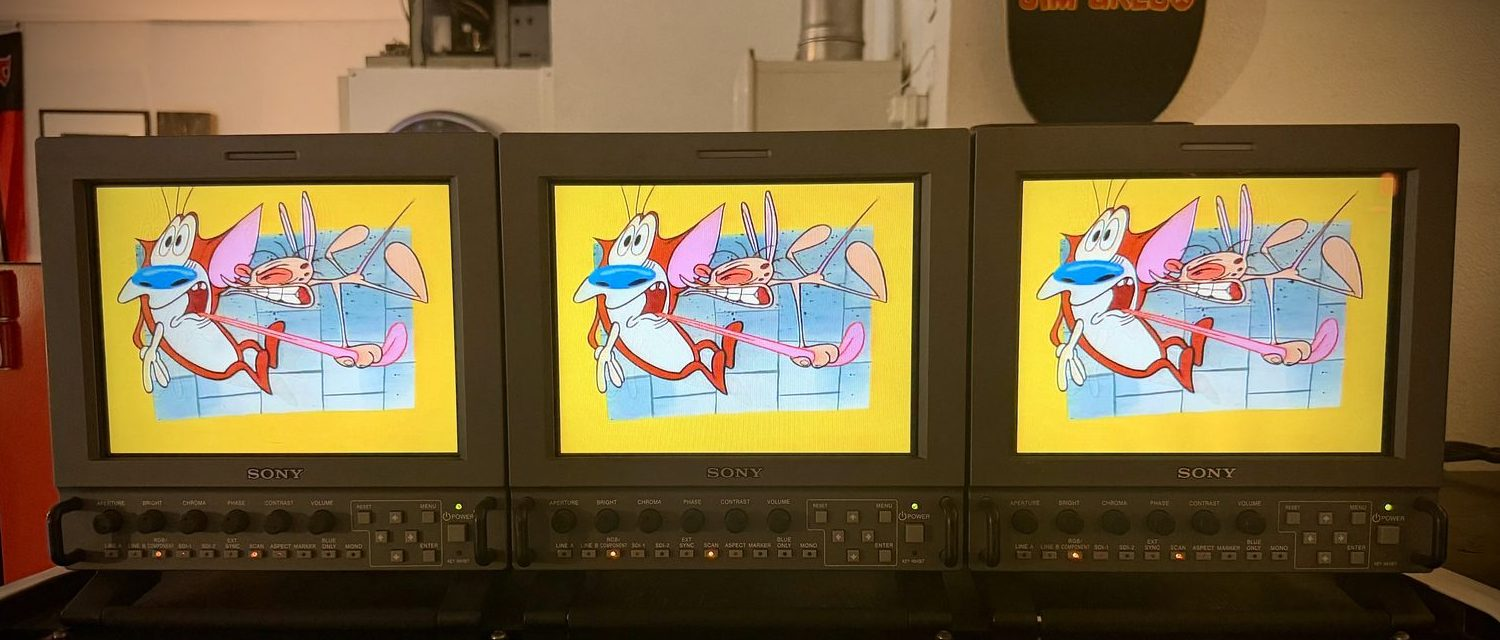
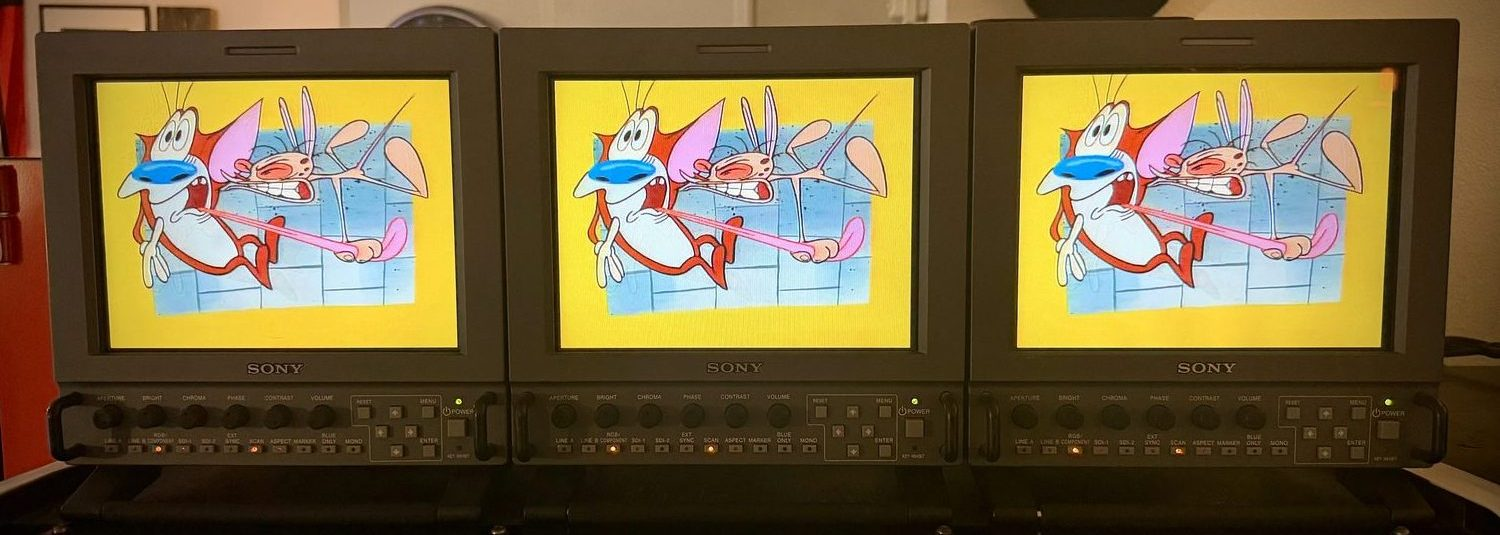
Monitor roster: align the cards without cropping the photos
David: don't crop the CRTs more than they were cropped before -- the 4:3
cover crop was cutting off control panels, keypads and the AMS-100 sitting
on top, which is the part worth looking at.

- the roster thumb is now a 7:6 plate with object-fit:contain on a
  transparent ground, so the whole photo shows and the card's own gradient
  mats it; two columns, rows still line up, nothing cropped
- lmd-rack.jpg cropped on top per his note -- ceiling, shelf and the wall
  disc are gone, the rack and its control strip stay. 1500x535, thumb
  800x285, refs bumped to ?v=3 on monitors and in the gallery, which
  shares the file

diff --git a/monitors.html b/monitors.html
@@ -126,12 +126,14 @@
   /* Fleet roster — one uniform card, the way the coin-op grid works.
      Even column counts only, so four tubes never leave an orphan row.
      4:3 is the tube's own ratio, so every chassis frames the same way. */
-  .grid.fleetgrid{grid-template-columns:repeat(4,minmax(0,1fr))}
+  .grid.fleetgrid{grid-template-columns:repeat(2,minmax(0,1fr))}
   @media(max-width:900px){.grid.fleetgrid{grid-template-columns:repeat(2,minmax(0,1fr))}}
   @media(max-width:520px){.grid.fleetgrid{grid-template-columns:1fr}}
-  .fleetgrid .cthumb{aspect-ratio:4/3}
+  /* One uniform plate per card, but object-fit:contain — the whole photo
+     shows, nothing is cropped; the card's own ground fills the rest. */
+  .fleetgrid .cthumb{aspect-ratio:7/6;object-fit:contain;background:transparent}
   .fleetgrid .wide{grid-column:1/-1}
-  .fleetgrid .wide .cthumb{aspect-ratio:800/341}
+  .fleetgrid .wide .cthumb{aspect-ratio:800/285}
   .fleetgrid .lmdlist{display:flex;flex-wrap:wrap;gap:.35rem .9rem;margin-top:.6rem;
     font-family:var(--cond);font-size:.95rem;color:var(--dim)}
   .fleetgrid .lmdlist b{color:var(--ink);font-weight:600}
@@ -190,7 +192,7 @@
         <p>Fully kitted &mdash; all three card slots filled, control panel and keypad flanking the tube. On screen: <em>Beggar Prince</em>, 2006 &mdash; a brand-new Genesis game a decade after Sega walked away, on the last CRT generation Sony ever built.</p>
       </div>
       <div class="card wide">
-        <img class="cthumb" src="media/thumbs/lmd-rack.jpg?v=2" data-full="media/2026/lmd-rack.jpg?v=2" alt="Three Sony LMD professional LCD monitors side by side, all showing the same cartoon frame" loading="lazy" width="800" height="341">
+        <img class="cthumb" src="media/thumbs/lmd-rack.jpg?v=3" data-full="media/2026/lmd-rack.jpg?v=3" alt="Three Sony LMD professional LCD monitors side by side, all showing the same cartoon frame" loading="lazy" width="800" height="285">
         <div class="sub">LMD &middot; Four models &middot; Nine units</div>
         <h3>The LMD wall</h3>
         <p>The flat-panel side of the fleet, and the confidence layer behind the tubes &mdash; one shared 8.4-inch chassis family, one manual, one job: keep every signal honest before it reaches glass that matters.</p>

diff --git a/assets/gallery-data.js b/assets/gallery-data.js
@@ -33,7 +33,7 @@ const GALLERY = [
   { type: "image", src: "media/2026/ij-playfield.jpg?v=2", title: "Indiana Jones, all lit", caption: "Widebody playfield &mdash; mine cart right, idol center, and Williams using every inch", cat: "pinball" , w: 800, h: 1067 },
   { type: "image", src: "media/2026/tna-playfield.jpg?v=2", title: "Reactor lit", caption: "Total Nuclear Annihilation mid-game &mdash; the tempo climbs with every reactor you clear", cat: "pinball" , w: 800, h: 1067 },
   { type: "image", src: "media/2026/ghostbusters-playfield.jpg?v=2", title: "Ghostbusters Premium", caption: "Zombie Yeti artwork lit like a nightclub, magna-slings waiting", cat: "pinball" , w: 800, h: 1067 },
-  { type: "image", src: "media/2026/lmd-rack.jpg?v=2", title: "The LMD squadron", caption: "Three of the LMD fleet running side by side, all set to zero scan", cat: "monitors" , w: 800, h: 341 },
+  { type: "image", src: "media/2026/lmd-rack.jpg?v=3", title: "The LMD squadron", caption: "Three of the LMD fleet running side by side, all set to zero scan", cat: "monitors" , w: 800, h: 341 },
   { type: "video", src: "media/video/game-room-spin-v2.mp4", poster: "media/2026/game-room-spin-poster.jpg", title: "The game room, one full turn", caption: "A slow spin around the inside room \u2014 the framed PCB wall, Super Mario Bros. on the PVMs, the Mega CD library under the Kay\u00b7Bee World of Nintendo sign, and the Red Tent holding the corner", cat: "consoles" },
   { type: "image", src: "media/2026/red-tent-finished.jpg", title: "The Red Tent, reborn", caption: "Fresh paint, serviced monitors, polished chrome — forty years younger. <a href='red-tent.html'>The restoration story →</a>", cat: "arcade", date: "2026-08" , w: 800, h: 888 },
   { type: "image", src: "media/2026/vs-dk-high-scores.jpg", title: "Super Player's table", caption: "VS. Super Mario Bros.' high score board — every slot initialed DK, every run to World 8-4, 2,743,550 on top. <a href='vs-smb.html'>Why the arcade SMB is a different beast →</a>", cat: "arcade", date: "2026-08" , w: 800, h: 1067 },

diff --git a/CLAUDE.md b/CLAUDE.md
@@ -177,16 +177,28 @@ Vercel auto-deploys `main`; allow ~40s before verifying.
 - **Never publish a fault on a machine David has sold.** Condition notes are for what he still
   owns. The AMS-3 that left had a specific defect; it was written up, and he asked for it removed
   (2026-08-26). Say only that a unit moved on.
+- **⭐ NEVER CROP HIS MONITOR PHOTOS TO MAKE A LAYOUT LINE UP.** David, 2026-08-31, on a
+  roster rebuilt with uniform 4:3 `object-fit:cover` thumbs: *"I don't like how you cropped
+  out all the good features of each CRT — don't crop them more than they were cropped last
+  time."* The control panels, keypads, the AMS-100 riding on top, the SONY badge — that is
+  the *subject*, not background to trim. This is the same rule as the existing
+  cabinet-photo one, and it now has a worked example: an aligned grid is not worth a crop.
+  **Align with `object-fit:contain` instead** — a uniform plate the whole photo sits inside,
+  `background:transparent` so the card's own gradient mats it. monitors.html's roster is
+  `aspect-ratio:7/6` (the geometric mean of the four photos' ratios, so the matting is even),
+  two columns, nothing cropped, rows perfectly aligned. **Verify a "no-crop" layout
+  numerically** — measure each rendered box against `naturalWidth/Height` and assert the
+  scaled image fits inside it; do not eyeball it.
 - **A card without a photo cannot share a grid row with one that has a photo.** In an
-  aligned grid the photoless card stretches to match, so it reads as an empty box. This is
-  what made monitors.html look ragged (2026-08-31): four LMD models had no photograph, and
-  the page worked around it with `.masonry` plus a `.cthumb{aspect-ratio:auto}` override, so
-  no two cards lined up. Fixed by giving the roster **one uniform 4:3 thumb** (the tube's own
-  ratio — it frames every chassis without cutting the cabinet) and folding the four LMD
-  models into **one full-width `.card.wide`** carrying the rack photo at its true 800/341 and
-  naming all four models with their counts. David chose that over shooting three new photos.
-  **Nothing was dropped from the roster** — the LMDs are described as the wall they are, the
-  way Trinitron Fleet Vol. 1 treats them.
+  aligned grid the photoless card stretches to match, so it reads as an empty box. That was
+  the other half of the monitors.html mess: four LMD models had no photograph, and the page
+  worked around it with `.masonry` plus a `.cthumb{aspect-ratio:auto}` override, so no two
+  cards lined up. The four LMD models now fold into **one full-width `.card.wide`** on the
+  rack photo, naming all four models with their counts — David chose that over shooting
+  three new photos, and **nothing was dropped from the roster**. He asked for that one photo
+  to be **cropped on top** (ceiling, shelf and a wall disc above the monitors):
+  `lmd-rack.jpg` is now `(0,105)-(1500,640)` of the old master → 1500×535, thumb 800×285,
+  all refs at `?v=3` — **including the gallery's**, which shares the file.
 - **`.grid.c2` and `.grid.c3` are `auto-fill minmax()`, so the column count follows the
   viewport, not the class name.** At desktop `c2` is three columns and `c3` is four. A
   section with two or four items in a `c2` therefore leaves holes on the right — that was
